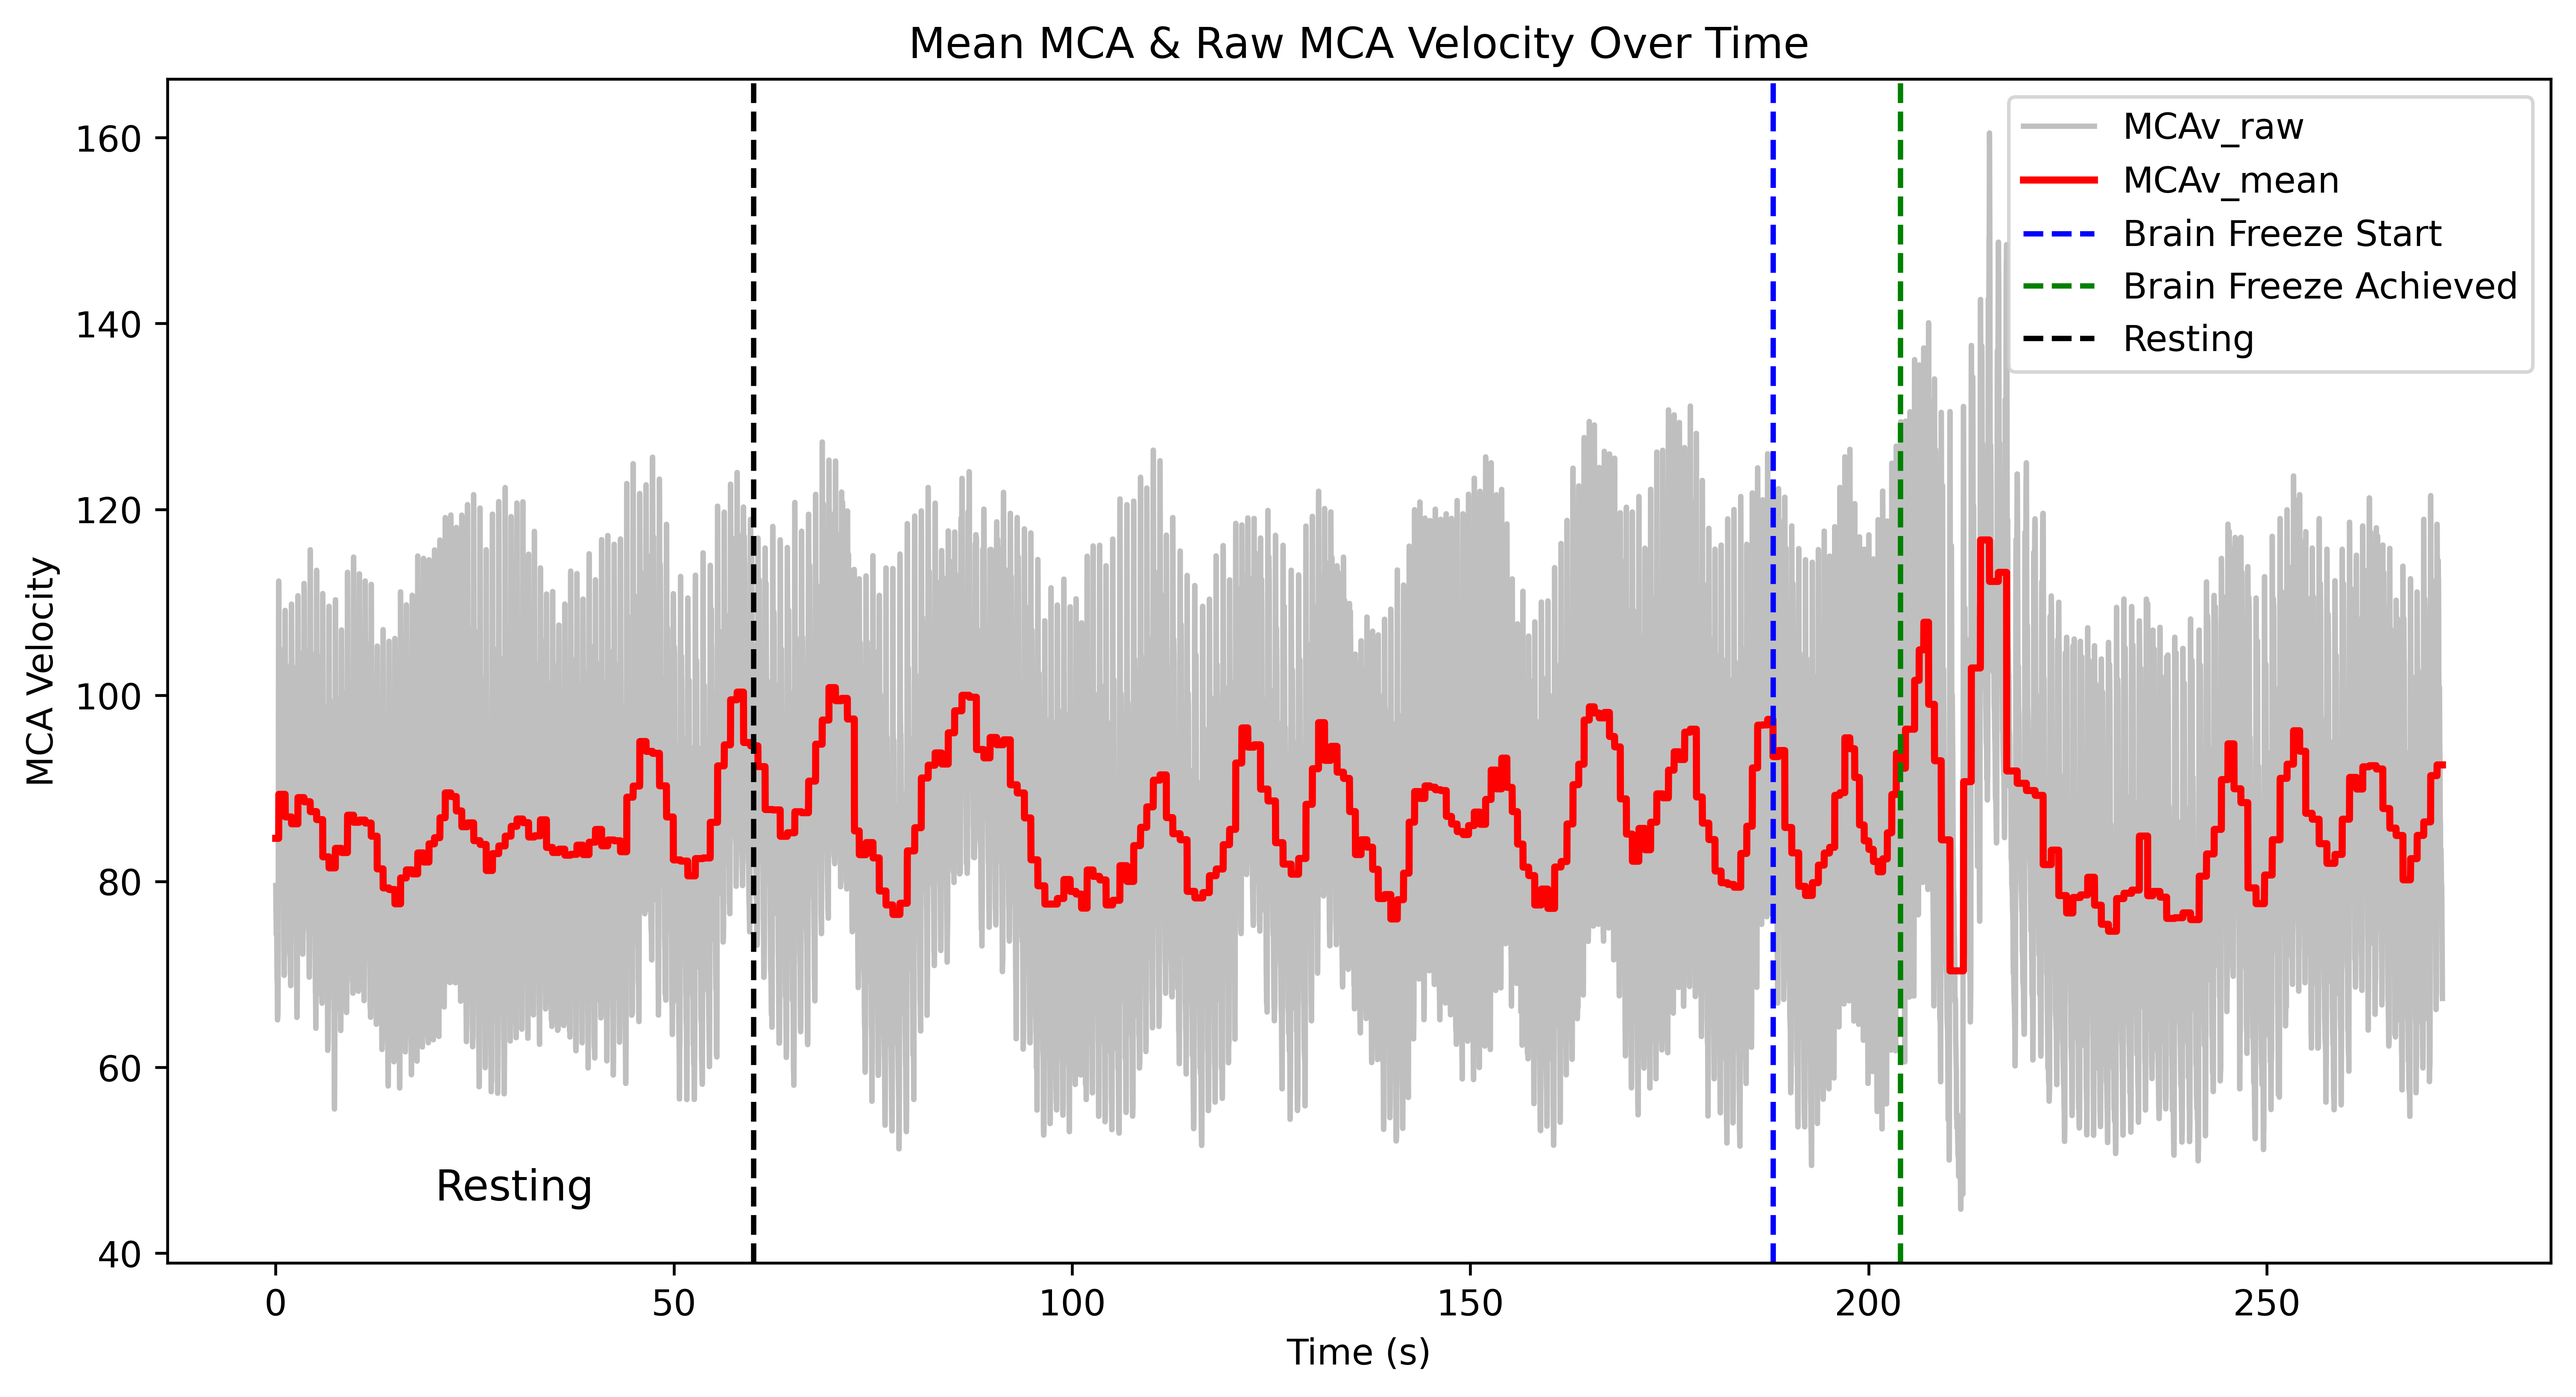
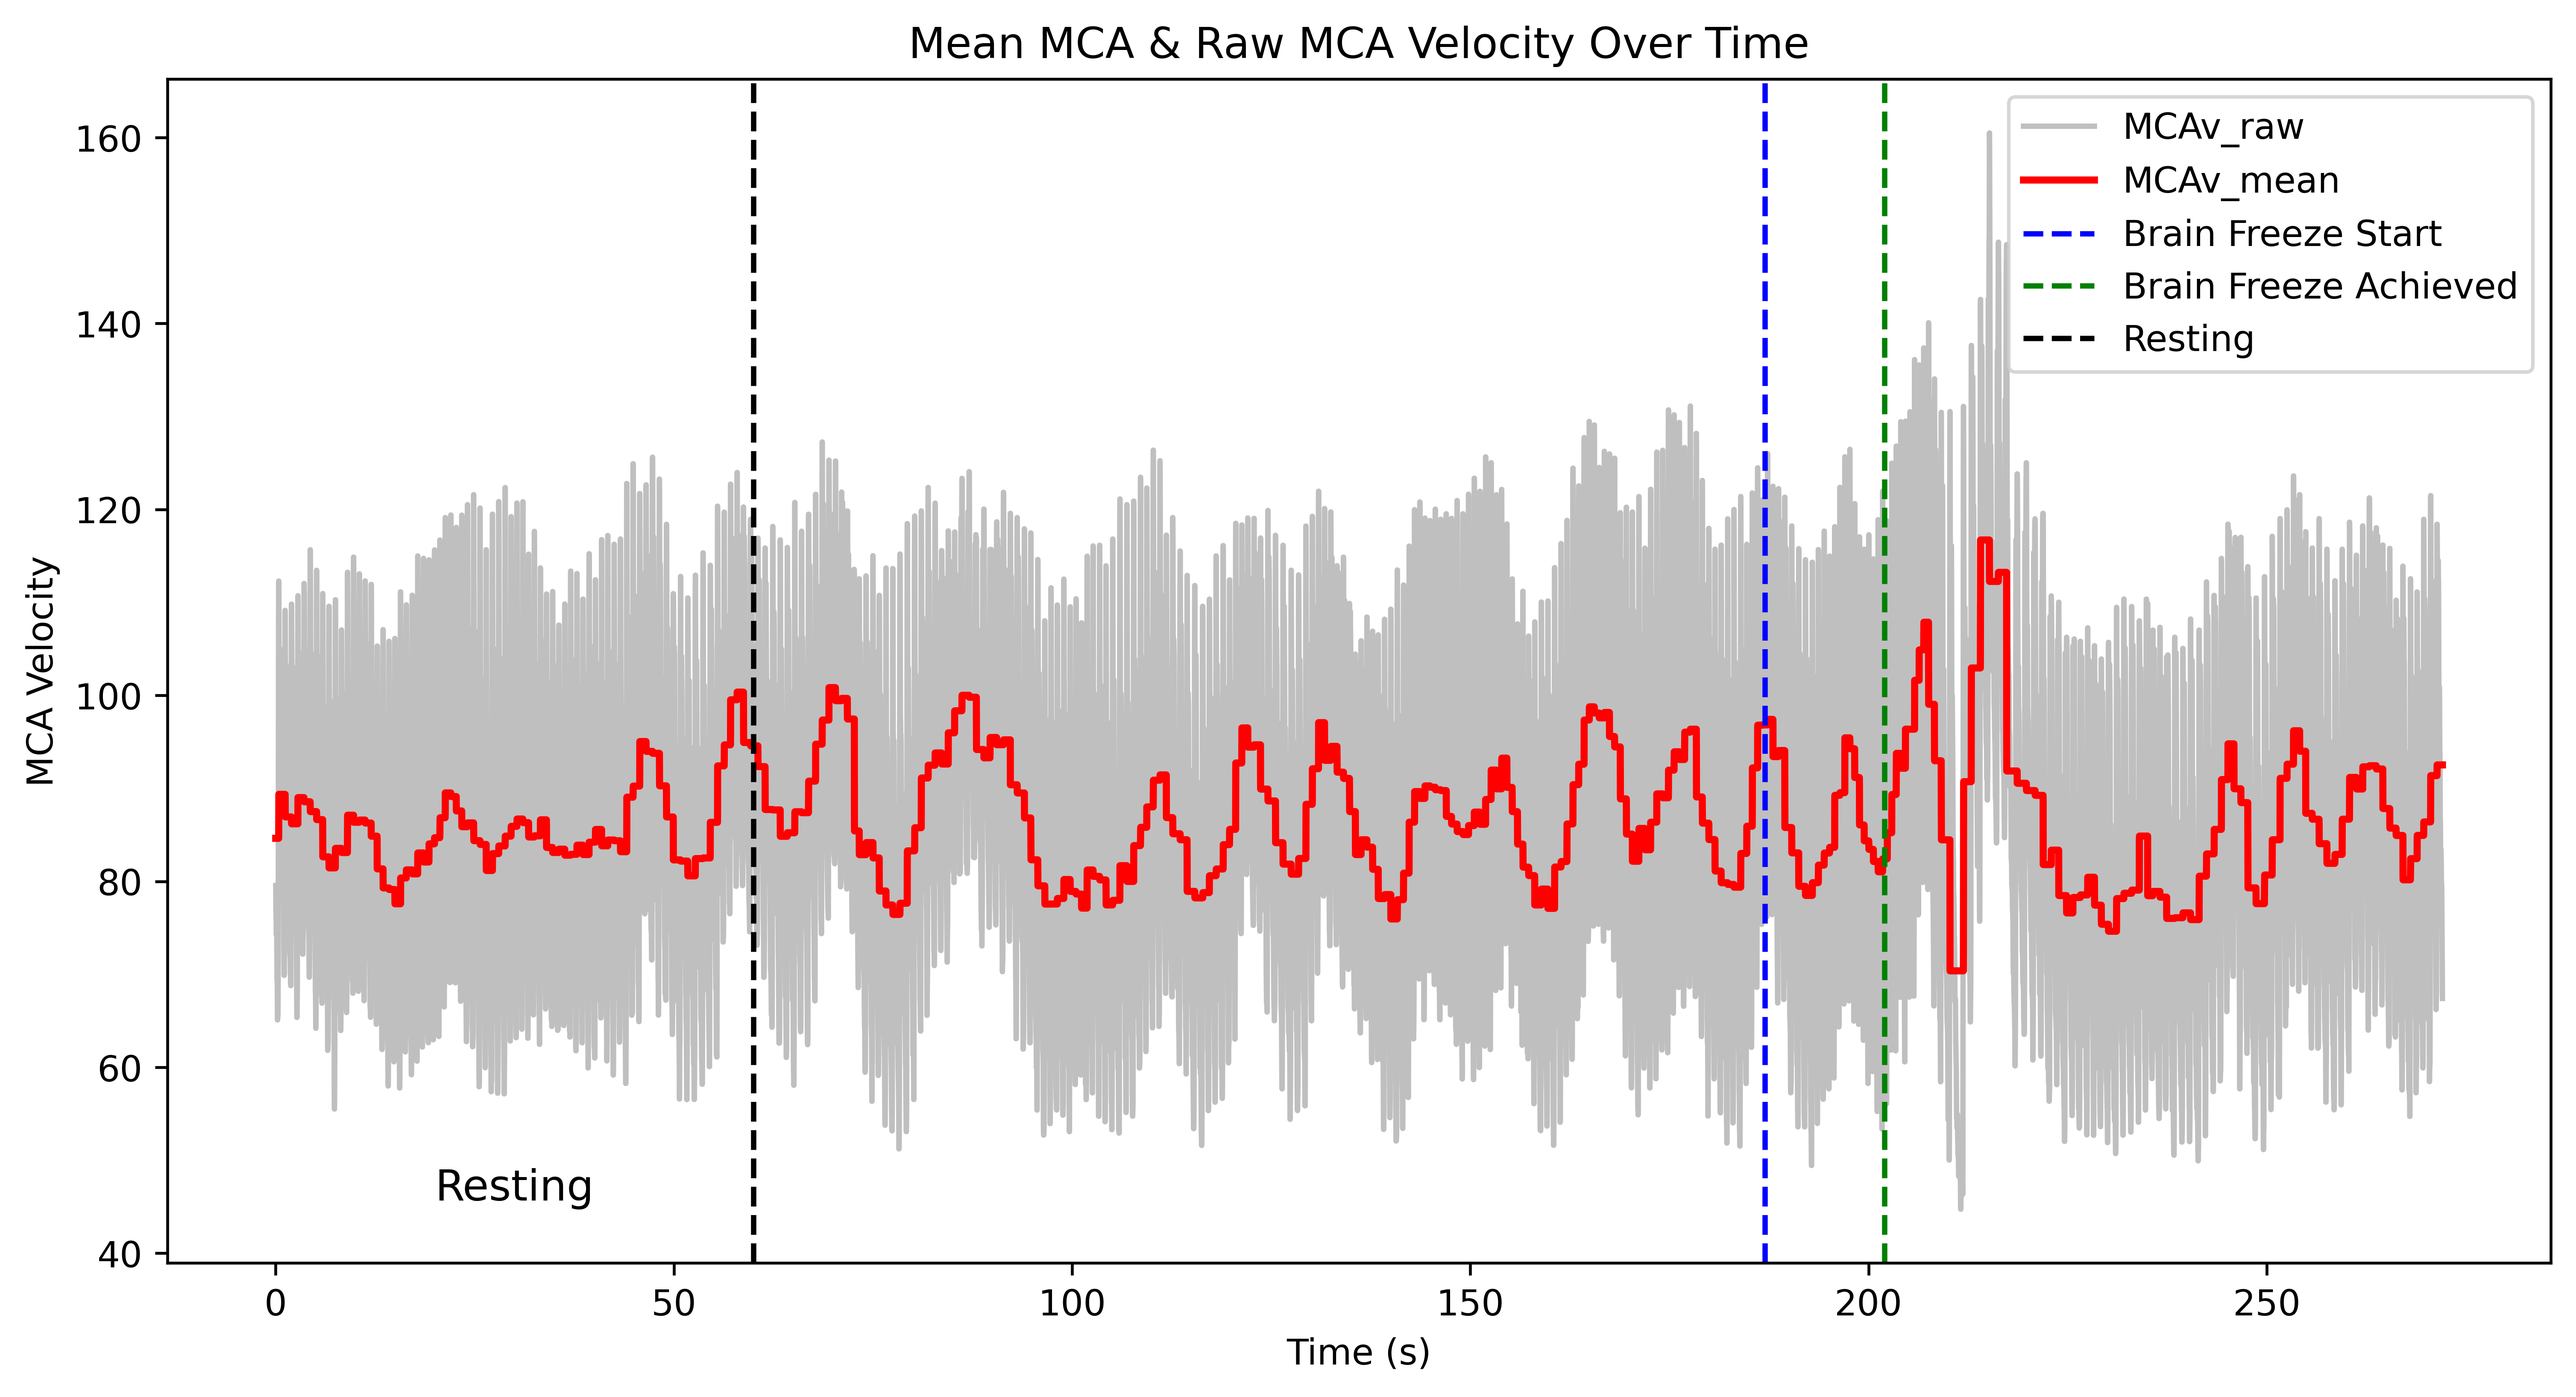
8 done

diff --git a/NormoxicAnalysis.py b/NormoxicAnalysis.py
@@ -4,7 +4,7 @@ import scipy.stats as stats
 from scipy.stats import wilcoxon
 import matplotlib.pyplot as plt
 
-normoxic_file_path = 'data/BFData_08.csv' # Replace with actual file path
+normoxic_file_path = 'data/BFData_02.csv' # Replace with actual file path
 
 def load_data(normoxic_file_path):
     """Load CSV file into a DataFrame."""
@@ -31,7 +31,7 @@ def analyze_brain_freeze(normoxic_file_path):
     df = df.copy()
     # Define time-based conditions for baseline and brain freeze
     baseline_df = df[df["Time (s)"] <= 60] # First 60 seconds are baseline
-    brain_freeze_df = df[df["Time (s)"] >= 186] # Brain freeze starts at 185-195 seconds (EDIT THIS FOR EACH FILE)
+    brain_freeze_df = df[df["Time (s)"] >= 187] # Brain freeze starts at 185-195 seconds (EDIT THIS FOR EACH FILE)
 
     # Remove HR spike between 239-241 seconds and interpolate the values - ONLY IF OUTLIER VALUE
     #hr_spike_mask = (brain_freeze_df["Time (s)"] >= 239) & (brain_freeze_df["Time (s)"] <= 241)
@@ -113,7 +113,7 @@ def analyze_brain_freeze(normoxic_file_path):
     pd.set_option('display.width', 1000)  # Set output width to avoid truncation
     print(results_df)
     # Save dataframe print output as CSV - MODIFY FOR EACH PARTICIPANT
-    results_df.to_csv('PrintOutputs/Brain_Freeze_Results008.csv', index=False)
+    results_df.to_csv('PrintOutputs/Brain_Freeze_Results002.csv', index=False)
 
     # Plot the data with MCAv_mean as a variable trace instead of a polynomial trendline
     plt.figure(figsize=(12, 6))
@@ -125,8 +125,8 @@ def analyze_brain_freeze(normoxic_file_path):
     plt.plot(df["Time (s)"], df["MCAv_mean"], label="MCAv_mean", color='red', linewidth=2)
 
     # Add a vertical dashed line at important seconds/time - MODIFY FOR EACH PARTICIPANT
-    plt.axvline(x=186, color='blue', linestyle='dashed', label="Brain Freeze Start")
-    plt.axvline(x=207, color='green', linestyle='dashed', label="Brain Freeze Achieved")
+    plt.axvline(x=187, color='blue', linestyle='dashed', label="Brain Freeze Start")
+    plt.axvline(x=202, color='green', linestyle='dashed', label="Brain Freeze Achieved")
     plt.axvline(x=60, color='black', linestyle='dashed', label='Resting')
 
     # Add text annotation for "Resting" slightly more to the left
@@ -139,7 +139,7 @@ def analyze_brain_freeze(normoxic_file_path):
     plt.legend()
 
     # Save plot with higher DPI (e.g., 300 for print-quality) - RENAME EACH FOR EACH PARTICIPANT
-    plt.savefig("Graphs/MCA_Velocity_Comparison008.png", dpi=600, bbox_inches="tight")
+    plt.savefig("Graphs/MCA_Velocity_Comparison002.png", dpi=600, bbox_inches="tight")
 
     # Show the plot
     plt.show()
